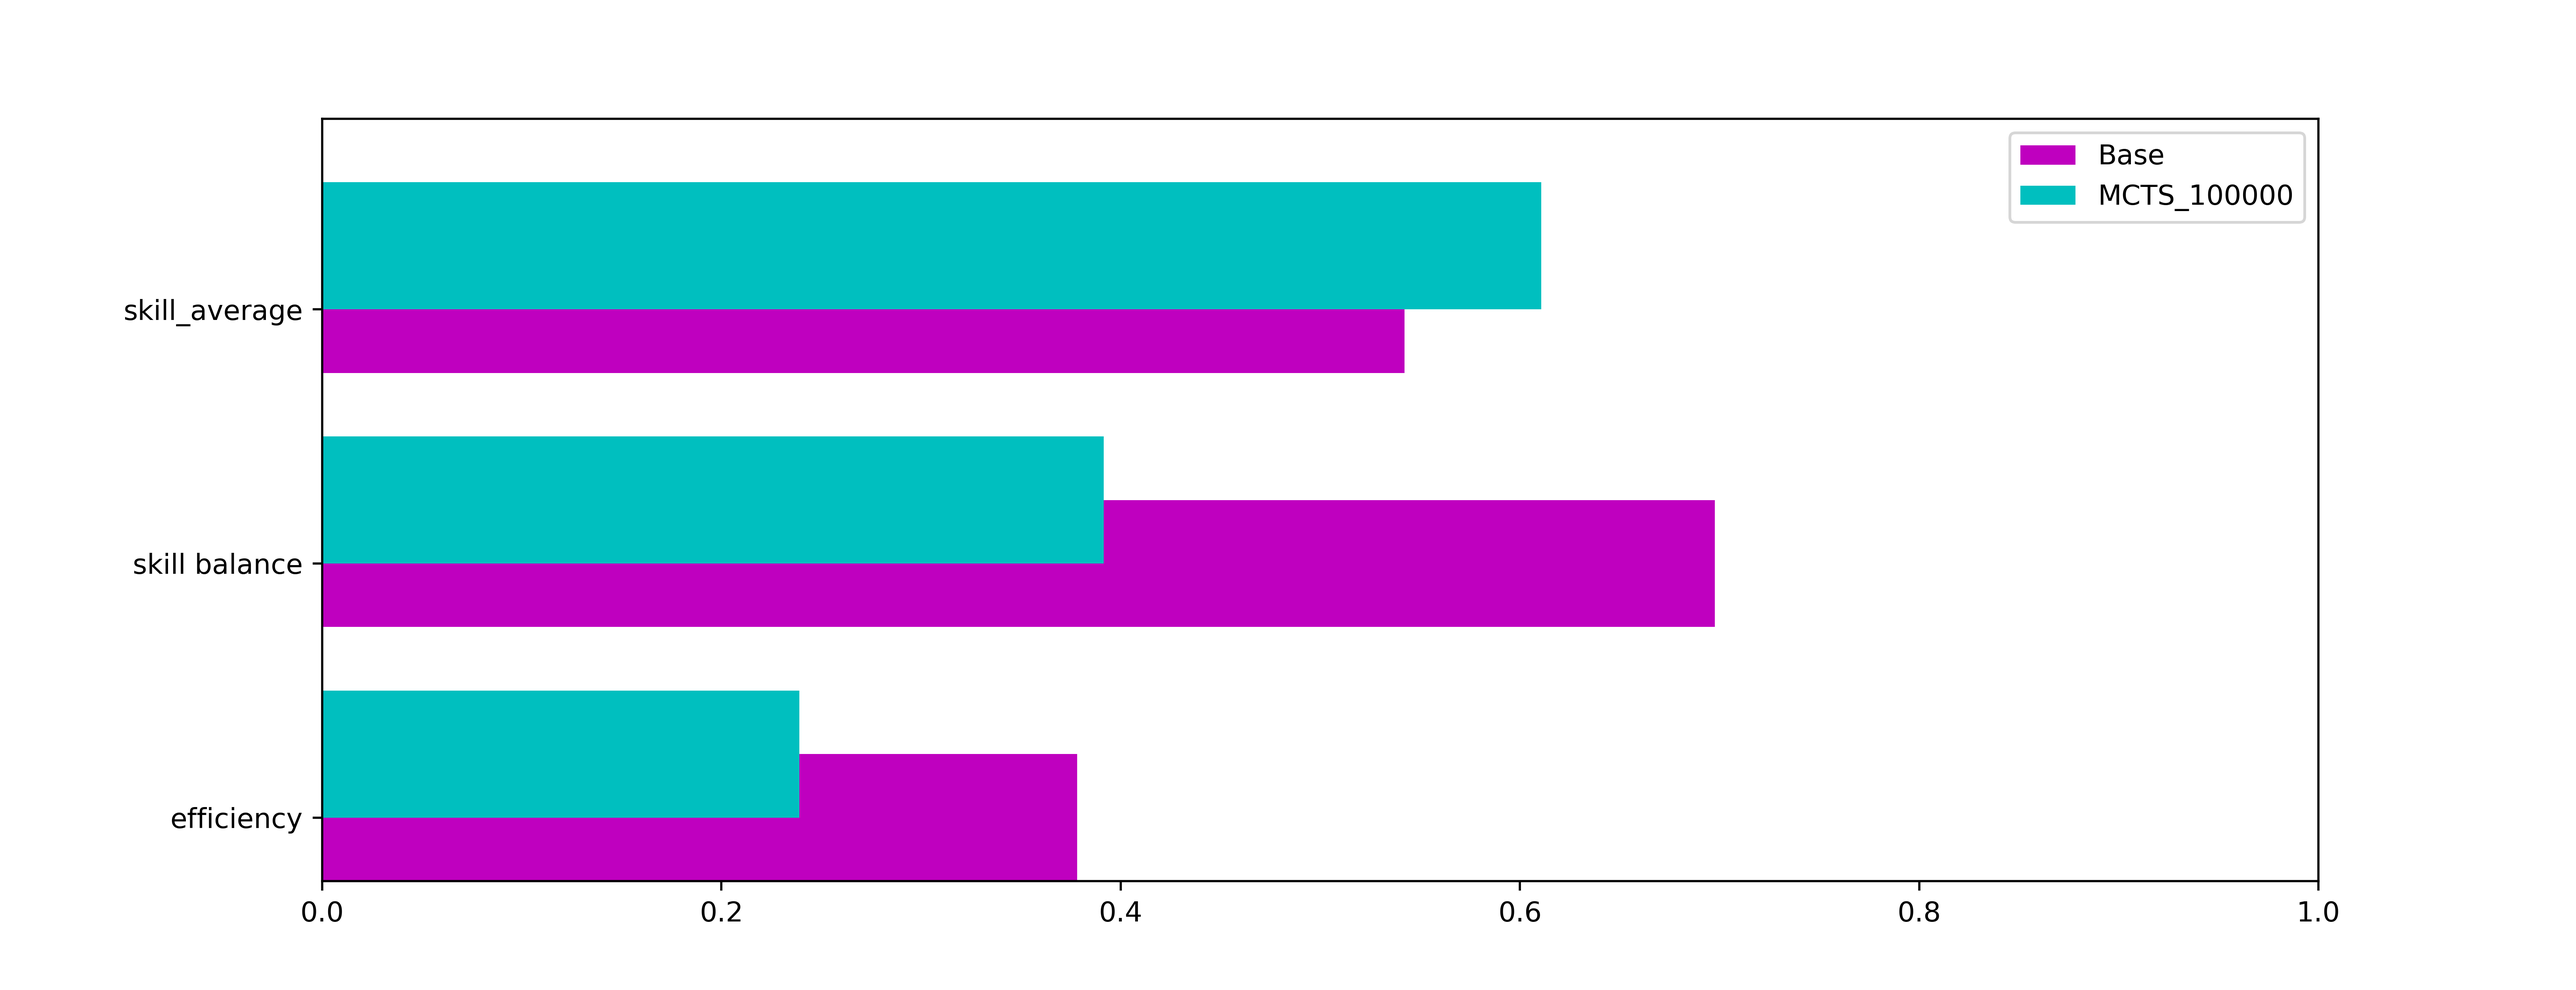
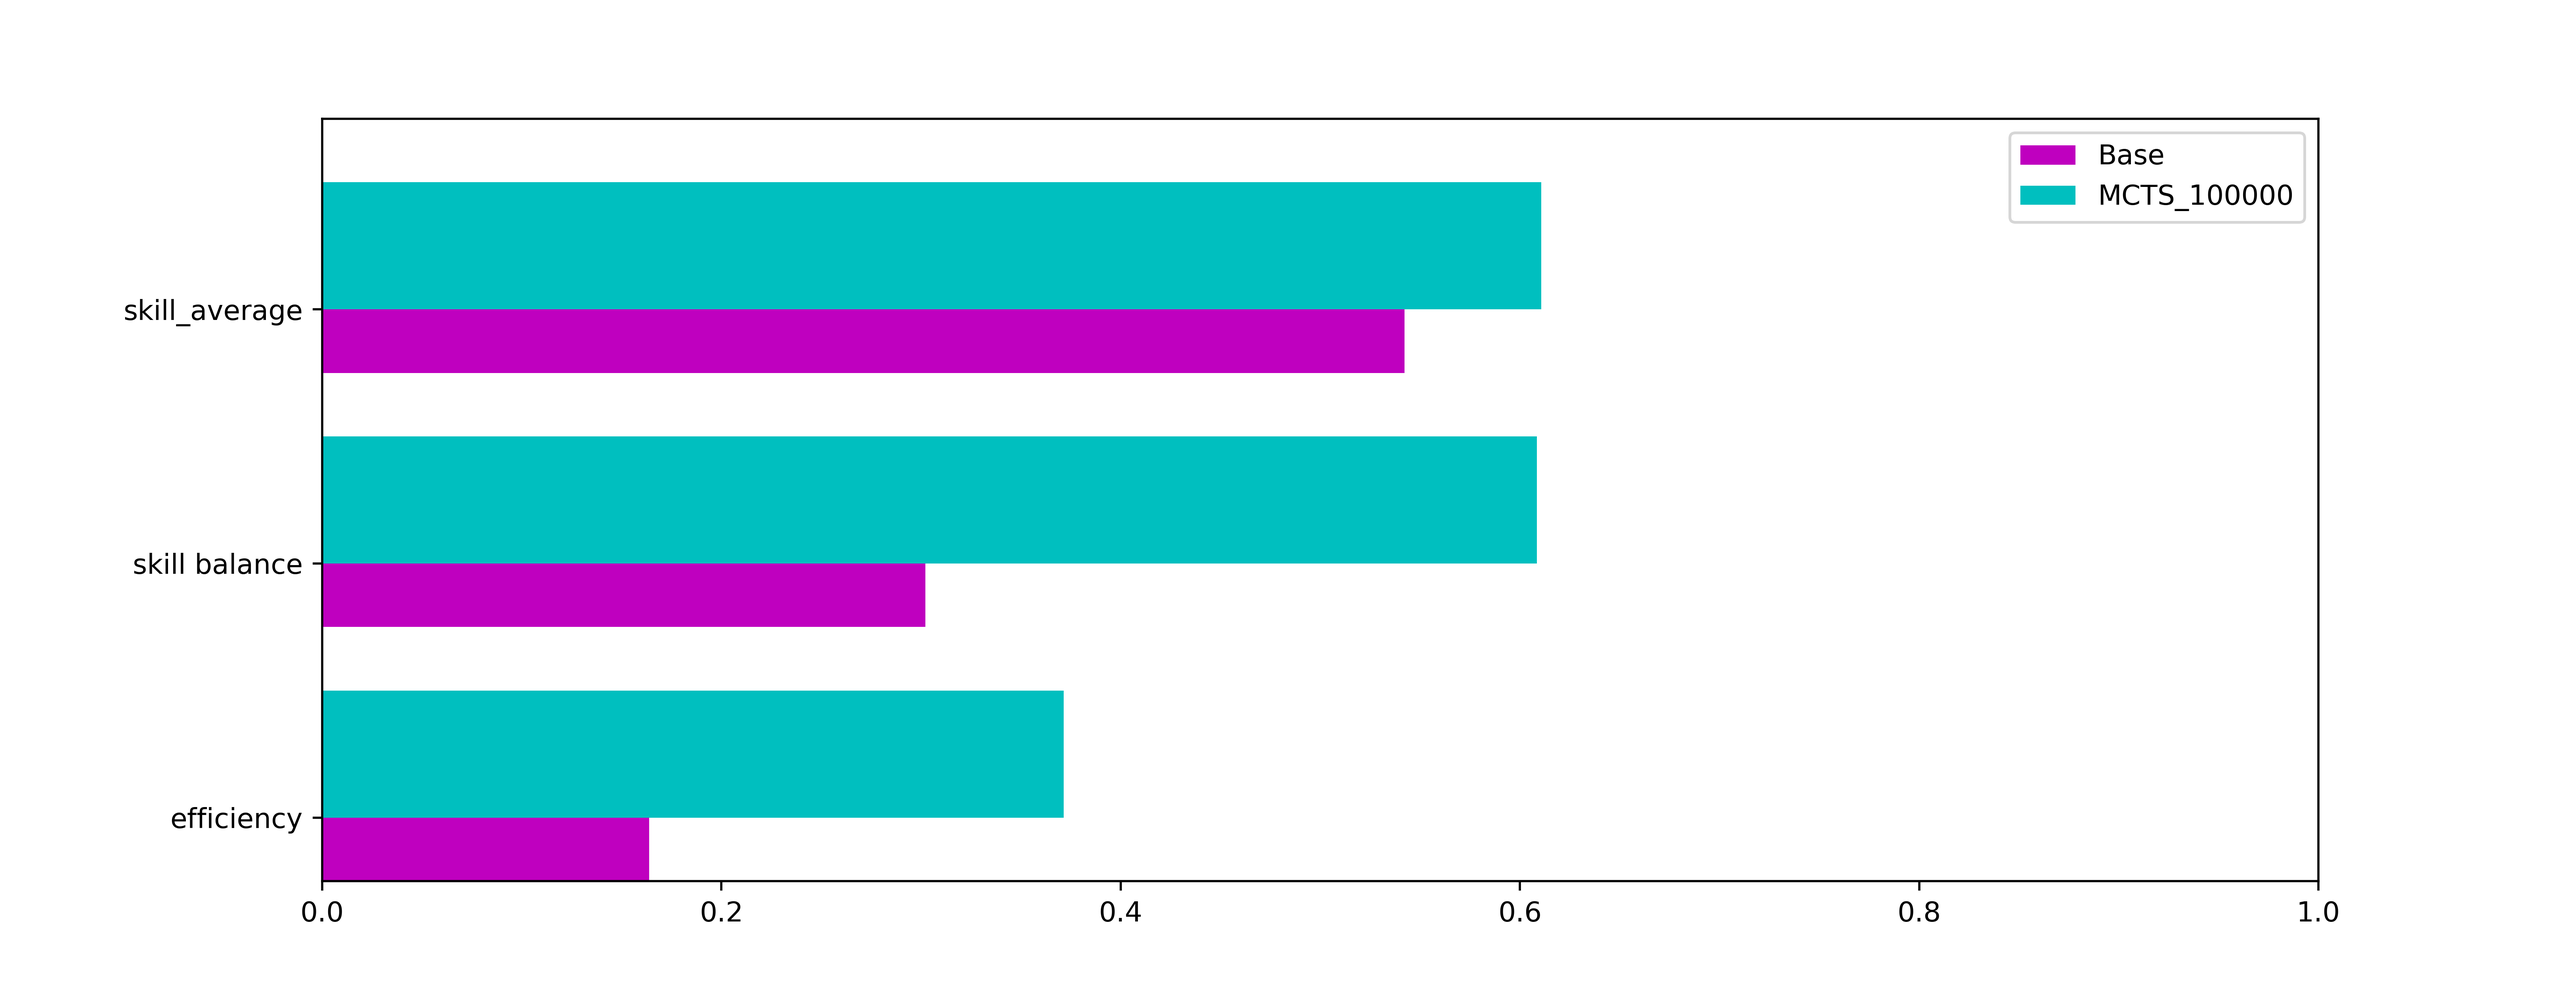
figures

Changed region(s): [[0.3435, 0.4368, 0.6871, 0.6552], [0.2498, 0.6864, 0.4372, 0.9048]]

diff --git a/PythonFiles/__main__.py b/PythonFiles/__main__.py
@@ -32,31 +32,31 @@ def get_global_data(data):
 
     data = deepcopy(data).fillna(0)
 
-    print("nb_hands.sum: ", data["nb_hands"].sum())
-    print("data.shape: ", data.shape)
-    print(" data['successful_loss']: ", data["successful_loss_rate"] * (data["nb_hands"] - data["expected_win_rate"] * data["nb_hands"]))
+    # print("nb_hands.sum: ", data["nb_hands"].sum())
+    # print("data.shape: ", data.shape)
+    # print(" data['successful_loss']: ", data["successful_loss_rate"] * (data["nb_hands"] - data["expected_win_rate"] * data["nb_hands"]))
 
     expected_win = data["expected_win_rate"] * data["nb_hands"]
     successful_win = data["successful_win_rate"] * expected_win
     successful_loss = data["successful_loss_rate"] * (data["nb_hands"] - expected_win)
     bluff = data["bluff_rate"] * (data["nb_hands"] - expected_win)
 
-    print("expected_win: ", expected_win.sum(), " successful_win: ", successful_win.sum(),
-          " successful_loss: ", successful_loss.sum(),
-          " bluff: ", bluff.sum())
+    # print("expected_win: ", expected_win.sum(), " successful_win: ", successful_win.sum(),
+    #       " successful_loss: ", successful_loss.sum(),
+    #       " bluff: ", bluff.sum())
 
     expected_win_rate = expected_win.sum() / data["nb_hands"].sum()
     successful_win_rate = successful_win.sum() / expected_win.sum()
     successful_loss_rate = successful_loss.sum() / (data["nb_hands"].sum() - expected_win.sum())
     bluff_rate = bluff.sum() / (data["nb_hands"].sum() - expected_win.sum())
 
-    print("expected_win_rate: ", expected_win_rate, " successful_win_rate: ", successful_win_rate,
-          " successful_loss_rate: ", successful_loss_rate, " bluff_rate: ", bluff_rate)
+    # print("expected_win_rate: ", expected_win_rate, " successful_win_rate: ", successful_win_rate,
+    #       " successful_loss_rate: ", successful_loss_rate, " bluff_rate: ", bluff_rate)
 
     skill_average = (2/5) * successful_win_rate + (2/5) * successful_loss_rate + (1/5) * bluff_rate
-    skill_balance = (4/5) * np.abs(successful_win_rate - successful_loss_rate) + \
-                    (1 / 10) * np.abs(bluff_rate - successful_loss_rate) + \
-                    (1 / 10) * np.abs(successful_win_rate - bluff_rate)
+    skill_balance = 1-((4/5) * np.abs(successful_win_rate - successful_loss_rate) + \
+                       (1 / 10) * np.abs(bluff_rate - successful_loss_rate) + \
+                       (1 / 10) * np.abs(successful_win_rate - bluff_rate))
 
     new_data = pd.DataFrame(columns=data.columns.to_list())
     new_data = new_data.append({
@@ -103,9 +103,9 @@ def plot_data(method_data: dict):
 
 
 if __name__ == '__main__':
-    # base_rn_data = load_data("base-rn")
+    base_rn_data = load_data("base-rn")
     mcts_base_data = load_data("mcts-base")
-    # mcts_rn_data = load_data("mcts-rn")
-    # plot_data(base_rn_data)
-    # plot_data(mcts_base_data)
-    # plot_data(mcts_rn_data)
+    mcts_rn_data = load_data("mcts-rn")
+    plot_data(base_rn_data)
+    plot_data(mcts_base_data)
+    plot_data(mcts_rn_data)
